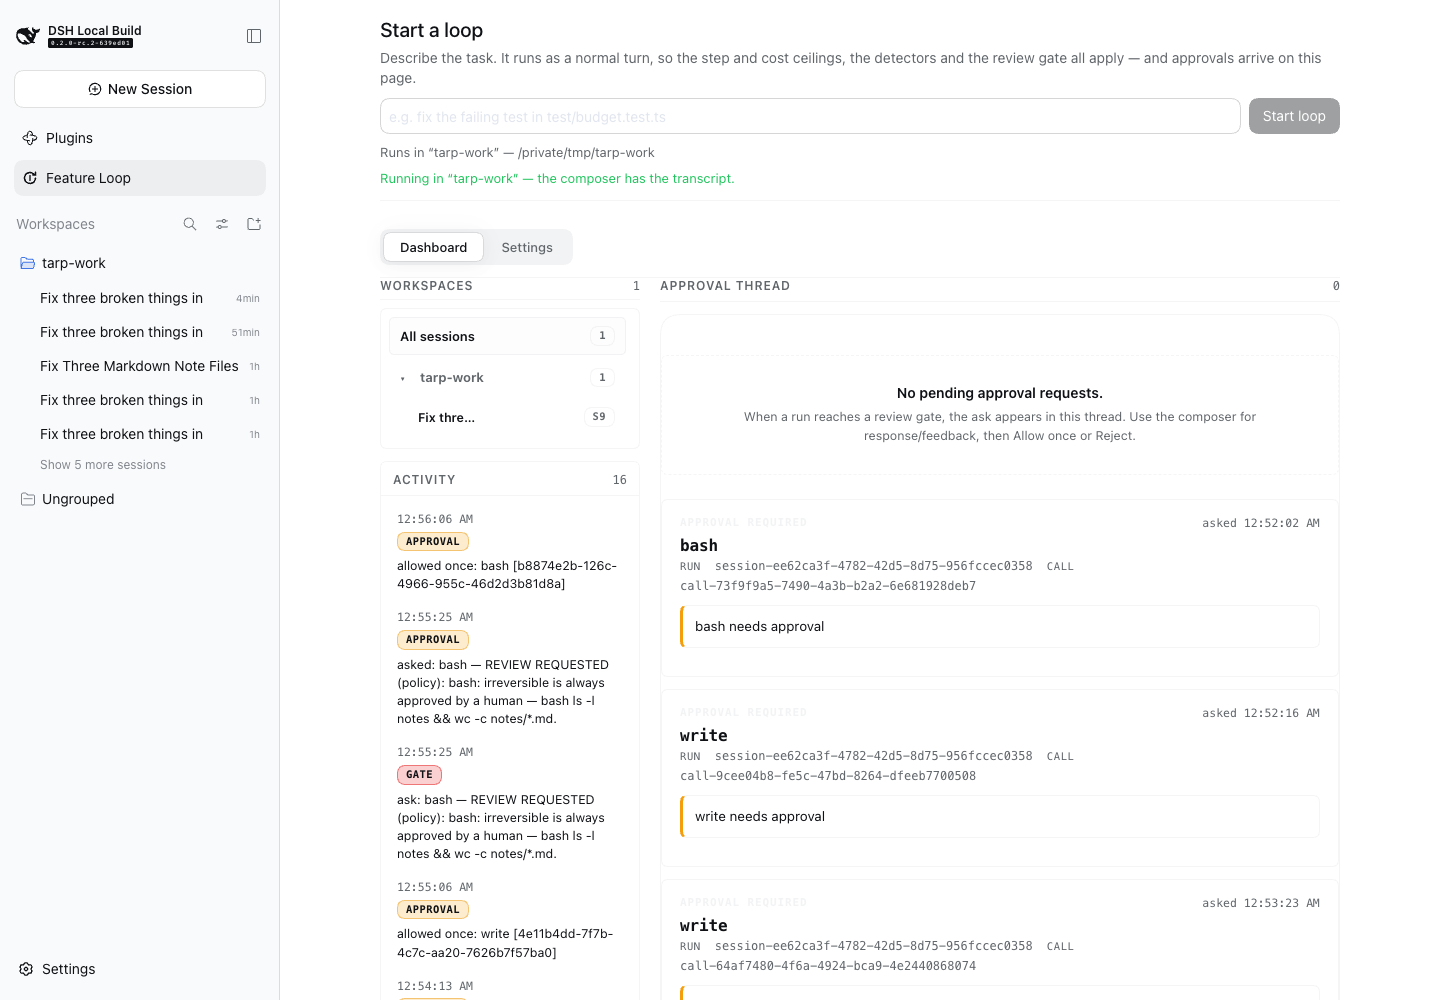
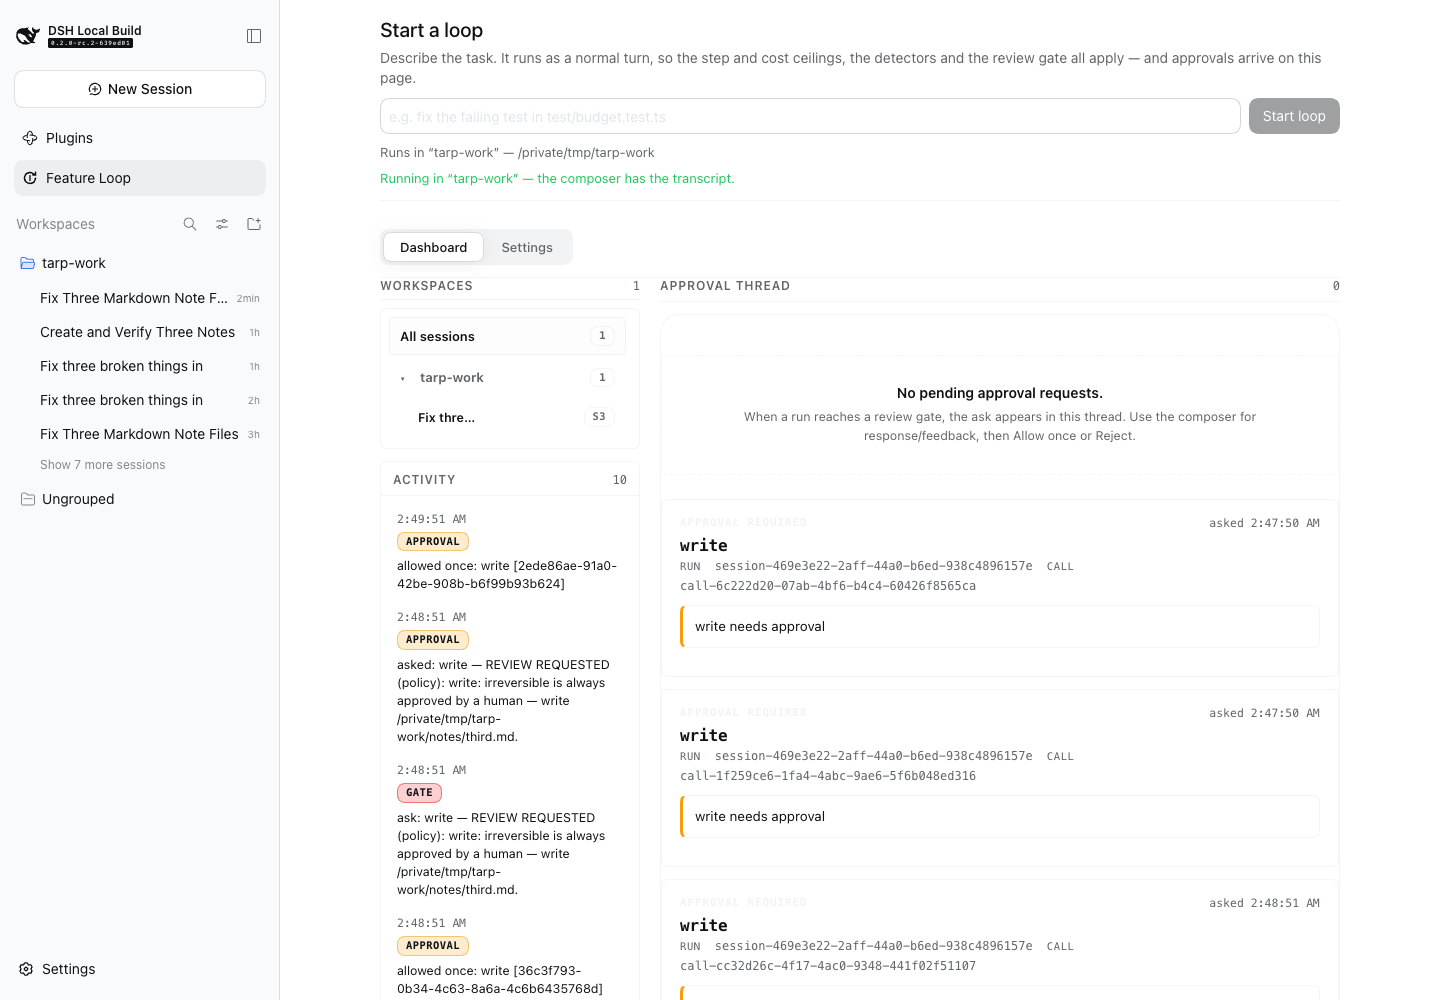
Re-verify the gate table live, and record what it cost to get there
The same three-file task against a web profile carrying the fixed table: three
asks, all three `write`, each naming its own file, 3/3 files written, waits
39-58ms — and ZERO `job_list` asks, where the run before produced one. So the
table fix is not just a check passing: the thing a person is asked about dropped
from five asks to three, and all three are real writes.

Also records the fifth instance of this repo's recurring mistake, which I walked
into: getting the fixed table into the live profile by hand-editing generated
YAML took five attempts, each worse than the last, ending in a duplicate-key
parse error. The generator's heredoc is the source of truth and was correct the
whole time; rewriting the file from it took one command. Hand transcription of
generated YAML is the same mistake as hand-maintained copies, and the same rule
answers it: use the thing that generates it.

diff --git a/docs/KNOWN-ISSUES.md b/docs/KNOWN-ISSUES.md
@@ -734,11 +734,33 @@ copies`. Deleting one row from the docker copy exits 1 naming the tool and
 saying which file classifies it and which does not; reclassifying `job_list` in
 one copy exits 1 naming both classifications.
 
+**Verified end to end, live.** The same three-file task against a web profile
+carrying the fixed table, real browser, real model:
+
+```
+write — write /private/tmp/tarp-work/notes/first.md
+write — write /private/tmp/tarp-work/notes/second.md
+write — write /private/tmp/tarp-work/notes/third.md
+```
+
+`e2e-in-ui (allow): 3 × Allow once → 3 file(s) written`, waits 39–58ms, and
+**zero** `job_list` asks where the same task produced one before. The card is now
+both distinguishable AND only ever about a real write.
+
 **The pattern, fourth time.** §1t (duplicate section letters), §1bd (eight
 profiles running bytes nobody could name), §1bi (the README's first command),
 this. A fact written in several places with nothing asserting the copies agree.
 The fix that has worked each time is not "be more careful" — it is a script that
 fails, wired into `make check` and CI.
+
+**And the lesson from re-verifying it, which cost five attempts.** Getting the
+fixed table into a live profile by hand-editing its YAML produced a file the
+generator could never have written: four rounds of indentation arithmetic, each
+one making it slightly worse, ending in a duplicate-key parse error. The
+generator's own heredoc is the source of truth and was correct the whole time —
+the fix was to rewrite the file from the template, which took one command. Hand
+transcription of generated YAML is a fifth instance of the same mistake, and the
+same rule answers it: use the thing that generates it.
 
 ### 1c. `make profile` hung for nine minutes with the registry unreachable
 
